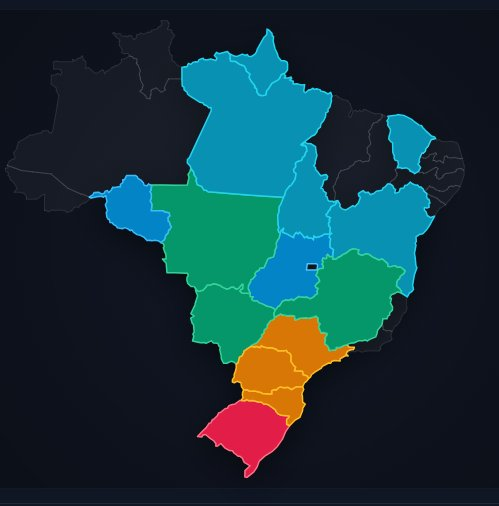
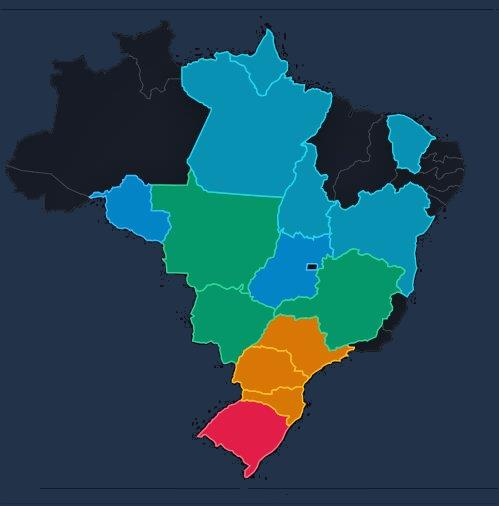
feat(ui): clarear fundo externo do mapa do brasil para destaque e atualizar icone

diff --git a/public/index.html b/public/index.html
@@ -2674,7 +2674,7 @@
 
         <!-- BOTÃO NO FORMATO DO MINI MAPA DO BRASIL -->
         <button type="button" class="btn-mini-mapa-brasil" onclick="trocarModulo('mapa', document.getElementById('nav-item-mapa'))" title="Clique para abrir a Distribuição Geográfica nas 27 UFs do Brasil">
-          <img src="mapa_brasil_btn.png" alt="Mapa do Brasil" class="img-mapa-brasil">
+          <img src="mapa_brasil_btn.png?v=2" alt="Mapa do Brasil" class="img-mapa-brasil">
           
         </button>
       </div>
@@ -2889,7 +2889,7 @@
 
         <!-- BOTÃO NO FORMATO DO MINI MAPA DO BRASIL -->
         <button type="button" class="btn-mini-mapa-brasil" onclick="trocarModulo('mapa', document.getElementById('nav-item-mapa'))" title="Clique para abrir a Distribuição Geográfica nas 27 UFs do Brasil">
-          <img src="mapa_brasil_btn.png" alt="Mapa do Brasil" class="img-mapa-brasil">
+          <img src="mapa_brasil_btn.png?v=2" alt="Mapa do Brasil" class="img-mapa-brasil">
           
         </button>
       </div>
@@ -3022,7 +3022,7 @@
 
         <!-- BOTÃO NO FORMATO DO MINI MAPA DO BRASIL -->
         <button type="button" class="btn-mini-mapa-brasil" onclick="trocarModulo('mapa', document.getElementById('nav-item-mapa'))" title="Clique para abrir a Distribuição Geográfica nas 27 UFs do Brasil">
-          <img src="mapa_brasil_btn.png" alt="Mapa do Brasil" class="img-mapa-brasil">
+          <img src="mapa_brasil_btn.png?v=2" alt="Mapa do Brasil" class="img-mapa-brasil">
           
         </button>
       </div>
@@ -3151,7 +3151,7 @@
 
         <!-- BOTÃO NO FORMATO DO MINI MAPA DO BRASIL -->
         <button type="button" class="btn-mini-mapa-brasil" onclick="trocarModulo('mapa', document.getElementById('nav-item-mapa'))" title="Clique para abrir a Distribuição Geográfica nas 27 UFs do Brasil">
-          <img src="mapa_brasil_btn.png" alt="Mapa do Brasil" class="img-mapa-brasil">
+          <img src="mapa_brasil_btn.png?v=2" alt="Mapa do Brasil" class="img-mapa-brasil">
           
         </button>
       </div>
@@ -3277,7 +3277,7 @@
 
         <!-- BOTÃO NO FORMATO DO MINI MAPA DO BRASIL -->
         <button type="button" class="btn-mini-mapa-brasil" onclick="trocarModulo('mapa', document.getElementById('nav-item-mapa'))" title="Clique para abrir a Distribuição Geográfica nas 27 UFs do Brasil">
-          <img src="mapa_brasil_btn.png" alt="Mapa do Brasil" class="img-mapa-brasil">
+          <img src="mapa_brasil_btn.png?v=2" alt="Mapa do Brasil" class="img-mapa-brasil">
           
         </button>
       </div>
@@ -3376,7 +3376,7 @@
 
         <!-- BOTÃO NO FORMATO DO MINI MAPA DO BRASIL -->
         <button type="button" class="btn-mini-mapa-brasil" onclick="trocarModulo('mapa', document.getElementById('nav-item-mapa'))" title="Clique para abrir a Distribuição Geográfica nas 27 UFs do Brasil">
-          <img src="mapa_brasil_btn.png" alt="Mapa do Brasil" class="img-mapa-brasil">
+          <img src="mapa_brasil_btn.png?v=2" alt="Mapa do Brasil" class="img-mapa-brasil">
           
         </button>
       </div>
